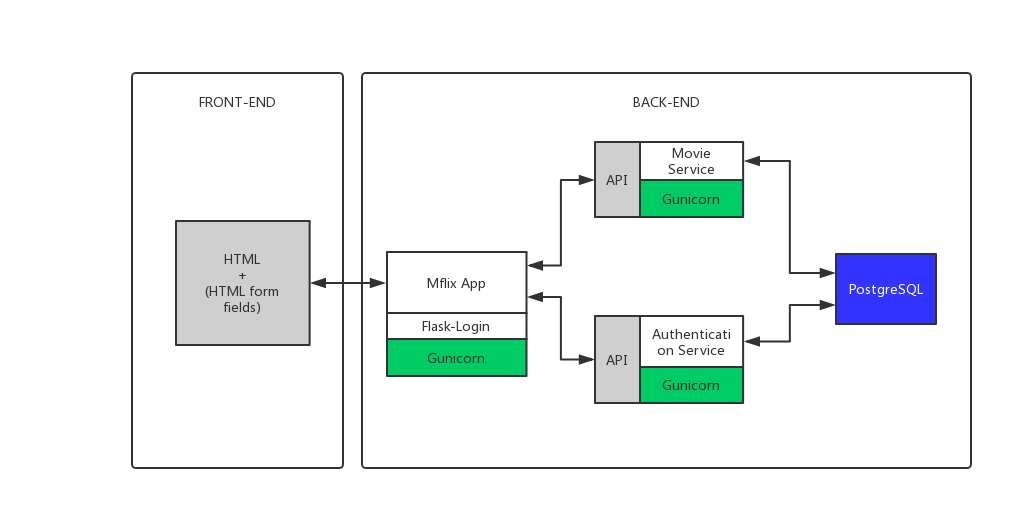
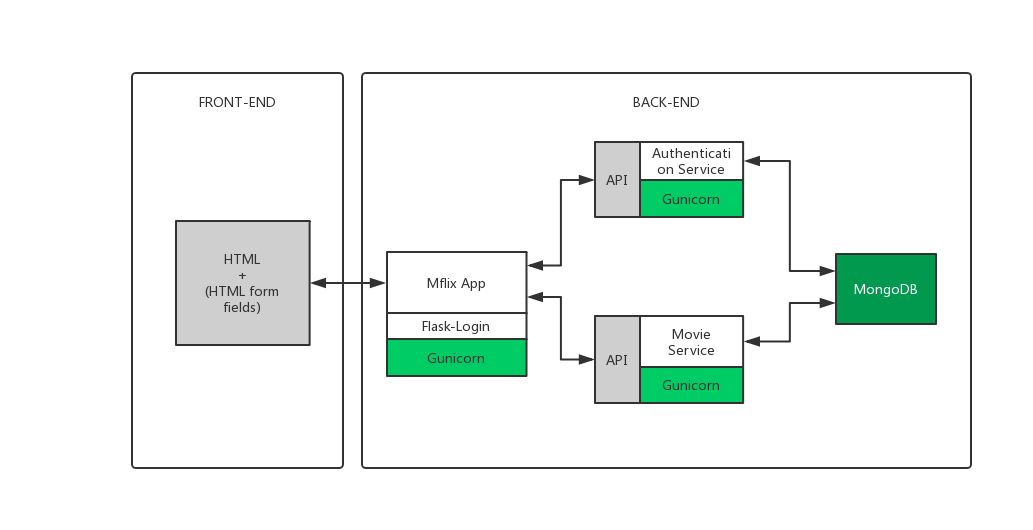
Finished documentation

Changed region(s): [[0.7744, 0.483, 0.9293, 0.634], [0.6196, 0.6038, 0.7125, 0.6943], [0.6196, 0.2717, 0.7125, 0.3321]]

diff --git a/mflix/mflix_app/mflix/auth.py b/mflix/mflix_app/mflix/auth.py
@@ -64,7 +64,7 @@ def login():
     pw = request.form['password']
 
     r = requests.get(
-        'http://auth_service:8000/user-auth/?email={email}', json={'pw': pw}
+        f'http://auth_service:8000/user-auth/?email={email}', json={'pw': pw}
     )
     if r.status_code != 200:
         return render_template('login.html', loginerror=r.json()['message'])

diff --git a/mflix/README.md b/mflix/README.md
@@ -30,27 +30,63 @@ In `env.sh`, we defined the necessary environmental variables for this project. 
 
 ### 1. Naive Implementation (Monolithic)
 
-The entire application is implemented as a <u>monolithic **Flask** application</u>.
+The entire application is implemented as a monolithic **Flask** application.
 
 * Since this project uses **MongoDB** as the database, user registration form is pure HTML fields, and each user is stored as a document in MongoDB.
 * This project uses `Flask-Login` module to handle user log-in/log-out, authentication and session issues.
 
 Check out the `naive-impl-dev` branch on the GitHub repo: https://github.com/Ziang-Lu/Intro-to-MongoDB/tree/naive-impl-dev
 
-<br>
-
-### 2. Implementation with RESTful Architecture (Microservices)
 
 
-
-<br>
-
-## Running the Flask Application
+**Run the application**
 
 ```bash
 $ ./run.sh
 ```
 
-Then simply go to http://localhost:5000/
+Then simply go to http://localhost:5000
 
+<br>
+
+### 2. Implementation with RESTful Architecture (Microservices)
+
+<img src="https://github.com/Ziang-Lu/Intro-to-MongoDB/blob/master/mflix/Mflix%20RESTful%20Architecture.png?raw=true">
+
+We separate `auth_service` and `movie_service` out as **Flask**-based web services:
+
+* `auth_service` is responsible for user registeration and user authentication issues, and talks to **MongoDB** directly.
+* `movie_service` is responsible for all the information related to movies and movie comments, and talks to **MongoDB** directly.
+
+The communication between the main Mflix app and the web services is through RESTful API, via `JSON`.
+
+<br>
+
+In this way, the original Mflix app now becomes a "skeleton" or a "gateway", which talks to `auth_service` and `movie_service`, uses the fetched data to render HTML templates.
+
+***
+
+*REST架构中要求client-server的communication应该是"无状态"的, 即一个request中必须包含server (service)处理该request的全部信息, 而在server-side不应保存任何与client-side有关的信息, 即server-side不应保存任何与某个client-side关联的session.*
+
+*=> 然而, 我们应该区分"resource state"和"application state": REST要求的无状态应该是对resource的处理无状态, 然而在main application本身里面我们需要保存应用状态, 即user的login和session等.*
+
+***
+
+Thus, in the original Mflix app, we still use `Flask-Login` to handle user log-in/log-out, authentication and session issues.
+
+
+
+**Run the application**
+
+```bash
+# Build the base image
+$ docker build -t mflix_base ./
+
+# Build all the images (main application and web services)
+$ docker-compose build
+
+$ docker-compose up
+```
+
+Then simply go to http://localhost:8000
 
